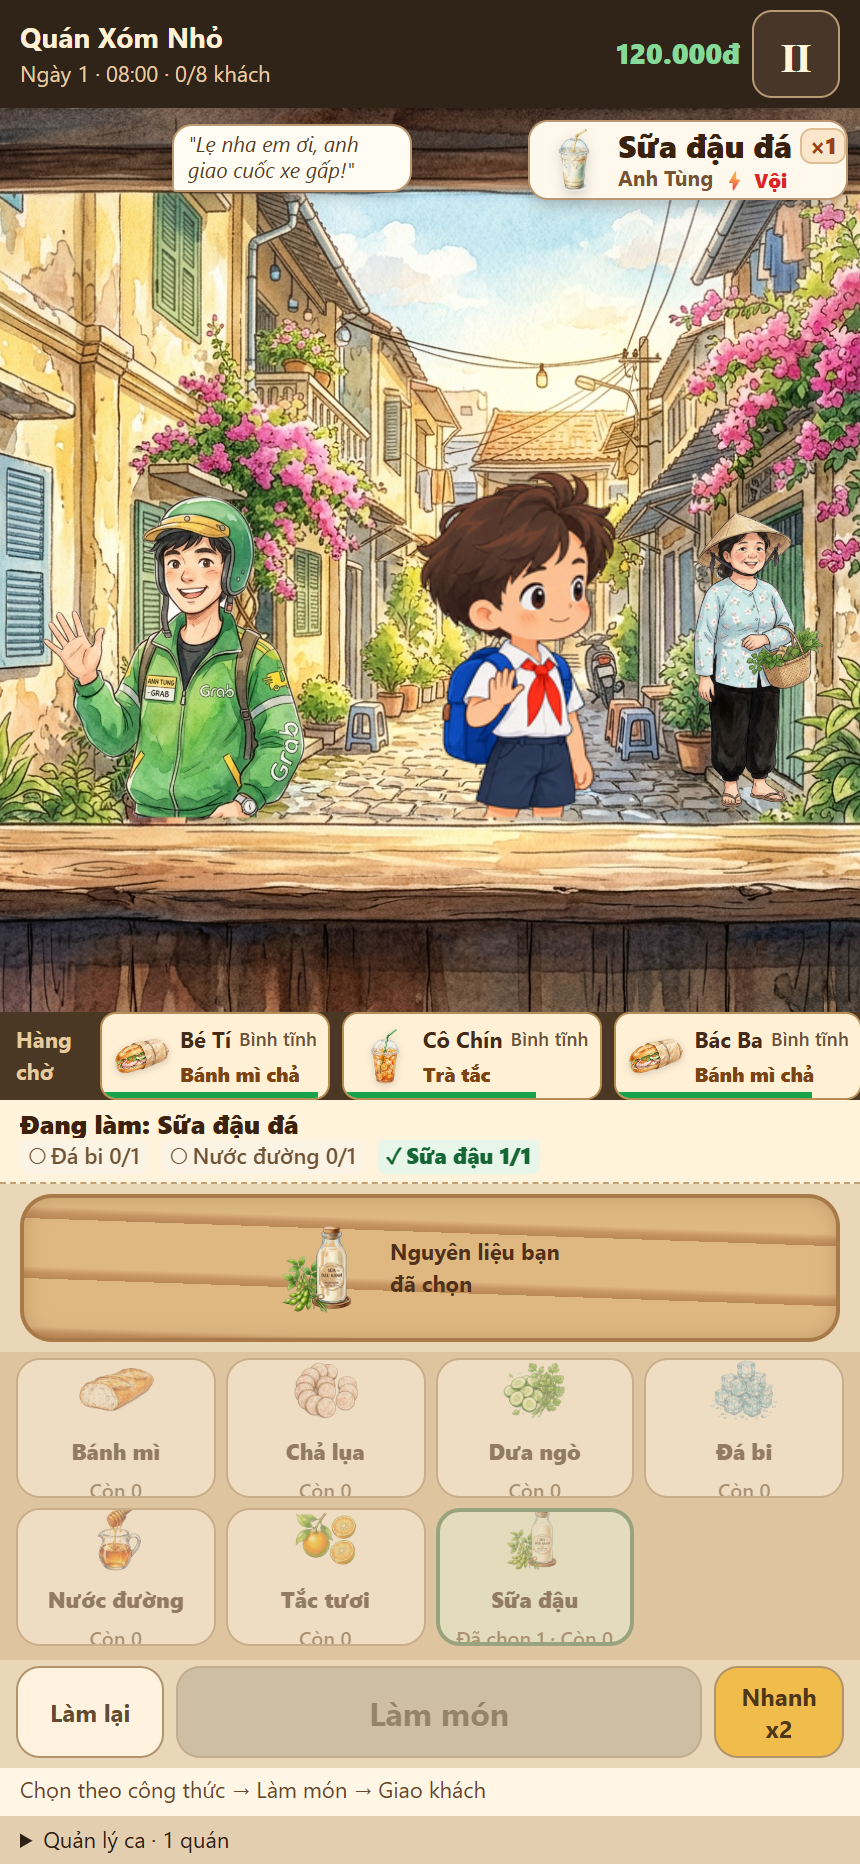
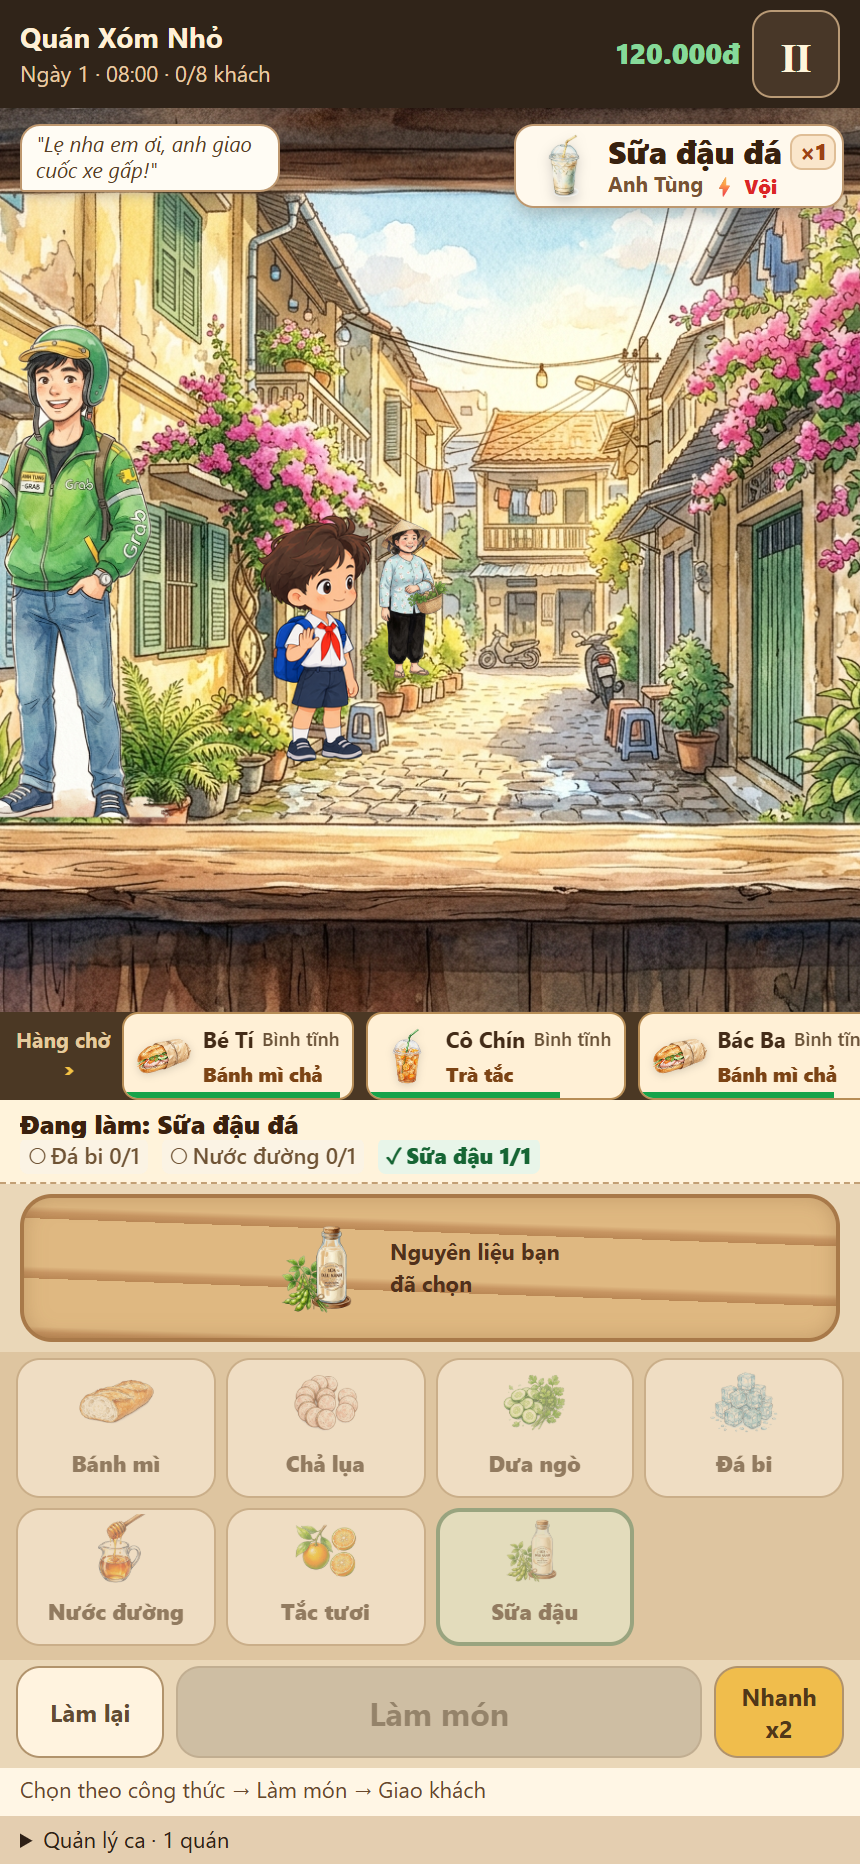
fix(layout): ground coordinate stage, age-depth scaling, and zero-duplicate queue promotion

diff --git a/game/style.css b/game/style.css
@@ -2642,16 +2642,11 @@ button:focus-visible, [role=button]:focus-visible { outline: 3px solid #0e7490; 
 .play-cash i { position:absolute; top:24px; right:0; background:#237846; color:white; z-index:60; font-size:12px; font-style:normal; padding:2px 6px; }
 .play-pause { width:44px; height:44px; border:1px solid #b99a76; background:#483728; color:#fff5db; border-radius:10px; flex-shrink:0; font-size:20px; }
 .play-scene { position:relative; overflow:hidden; min-height:0; background:#c1b288; }
-.play-background,.play-foreground { position:absolute; inset:0; width:100%; height:100%; object-fit:cover; object-position:center; }
-.play-background { z-index:0; }.play-foreground { z-index:20; pointer-events:none; }
-.play-customer { position:absolute; height:86%; width:47%; left:0; bottom:-13%; object-fit:contain; object-position:bottom; z-index:10; }
-.play-customer.small-child { height:73%; }.play-customer.teen { height:80%; }
+.play-stage { position:absolute; inset:0; width:100%; height:100%; pointer-events:none; }
 .play-customer.react { animation:reactBounce .5s ease-out; }
-.play-waiting { position:absolute; height:52%; width:24%; bottom:10%; object-fit:contain; z-index:4; }.waiting-0{left:48%}.waiting-1{left:72%;height:44%;bottom:16%}
-.play-canopy { position:absolute; left:0; top:0; width:100%; height:28%; object-fit:fill; z-index:18; }
-.customer-speech-bubble { position:absolute; z-index:25; left:20%; top:8px; max-width:120px; background:#fffcf4; border:1.5px solid #bd976e; border-radius:10px 10px 10px 2px; padding:3px 7px; font-size:10.5px; font-style:italic; color:#583d24; line-height:1.25; box-shadow:0 2px 6px rgba(36,26,25,0.22); pointer-events:none; }
+.customer-speech-bubble { position:absolute; z-index:25; left:10px; top:8px; max-width:130px; background:#fffcf4; border:1.5px solid #bd976e; border-radius:10px 10px 10px 2px; padding:3px 7px; font-size:10.5px; font-style:italic; color:#583d24; line-height:1.25; box-shadow:0 2px 6px rgba(36,26,25,0.22); pointer-events:none; }
 .customer-speech-bubble span { display:-webkit-box; -webkit-line-clamp:2; -webkit-box-orient:vertical; overflow:hidden; }
-.play-speech, .customer-order-callout { position:absolute; z-index:30; right:6px; top:6px; max-width:160px; background:#fff9ed; border:1.5px solid #bd976e; border-radius:10px; padding:3px 6px; box-shadow:0 3px 8px rgba(36,26,25,0.25); display:flex; align-items:center; gap:6px; }
+.play-speech, .customer-order-callout { position:absolute; z-index:30; right:8px; top:8px; max-width:165px; background:#fff9ed; border:1.5px solid #bd976e; border-radius:10px; padding:4px 8px; box-shadow:0 3px 8px rgba(36,26,25,0.25); display:flex; align-items:center; gap:6px; }
 .customer-order-callout.is-empty { padding:6px 10px; text-align:center; color:#795b3d; font-style:italic; font-size:11px; }
 .ticket-dish-img { width:32px; height:32px; object-fit:contain; flex-shrink:0; filter:drop-shadow(0 2px 3px rgba(0,0,0,0.18)); }
 .ticket-dish-meta { flex:1; min-width:0; display:flex; flex-direction:column; justify-content:center; gap:1px; }
@@ -2663,10 +2658,11 @@ button:focus-visible, [role=button]:focus-visible { outline: 3px solid #0e7490; 
 .ticket-cust-name { font-weight:700; white-space:nowrap; overflow:hidden; text-overflow:ellipsis; }
 .ticket-rush-tag { color:#dc2626; font-weight:800; font-size:10px; white-space:nowrap; }
 .ticket-empty-row { font-size:11px; color:#83674b; font-style:italic; padding:2px 0; }
-.play-tray-dish { position:absolute; z-index:26; bottom:8%; left:40%; width:18%; height:28%; object-fit:contain; }
 .play-pause-overlay { position:absolute; inset:0; background:#30241990; z-index:50; color:#fff; display:grid; place-items:center; font-size:20px; font-weight:800; }
-.play-queue { display:flex; align-items:center; gap:6px; background:#4b3824; padding:0 8px; overflow-x:auto; color:#f6e1b9; font-size:11px; }
-.queue-header-label { width:36px; flex-shrink:0; font-weight:700; font-size:11px; color:#e5cb9f; }
+.play-queue { position:relative; display:flex; align-items:center; gap:6px; background:#4b3824; padding:0 8px; overflow-x:auto; color:#f6e1b9; font-size:11px; scrollbar-width:thin; }
+.queue-header-label { width:auto; min-width:38px; flex-shrink:0; font-weight:700; font-size:10.5px; color:#e5cb9f; display:flex; flex-direction:column; align-items:center; line-height:1.1; }
+.queue-scroll-indicator { display:inline-block; font-style:normal; font-size:13px; font-weight:900; color:#f6c445; animation:queueArrowPulse 1.2s ease-in-out infinite; }
+@keyframes queueArrowPulse { 0%, 100% { transform:translateX(0); opacity:0.6; } 50% { transform:translateX(3px); opacity:1; } }
 .queue-ticket { min-width:115px; max-width:145px; min-height:44px; height:44px; position:relative; overflow:hidden; border:1px solid #b78d56; border-radius:8px; background:#fff0d6; padding:2px 6px; display:flex; align-items:center; gap:5px; text-align:left; color:#493019; flex-shrink:0; }
 .queue-dish-thumb { width:28px; height:28px; object-fit:contain; flex-shrink:0; filter:drop-shadow(0 1px 2px rgba(0,0,0,0.15)); }
 .queue-ticket-meta { flex:1; min-width:0; display:flex; flex-direction:column; justify-content:center; gap:1px; }
@@ -2689,7 +2685,7 @@ button:focus-visible, [role=button]:focus-visible { outline: 3px solid #0e7490; 
 .cooking-board {margin:5px 10px;position:relative;border:2px solid #a87949;border-radius:16px;background:repeating-linear-gradient(2deg,#ba8855 0px,#c79562 3px,#dfb881 6px,#dfb881 30px);box-shadow:inset 0 0 10px #70482340;display:flex;align-items:center;justify-content:center;gap:10px;overflow:hidden;color:#51301b;font-size:12px}
 .cooking-board>b{font-size:11px;max-width:100px}.selected-art{display:flex;align-items:center;justify-content:center;gap:2px;max-width:65%;height:63px}.selected-art img{width:50px;height:58px;object-fit:contain;animation:ingredientDrop .2s ease-out}.finished-dish{height:62px;width:100px;object-fit:contain;animation:ingredientDrop .25s ease-out}.is-cooking .selected-art {animation:cookSway .5s ease-in-out infinite alternate}.cook-progress{position:absolute;bottom:0;left:0;height:4px;width:100%;background:#f4d5a2}.cook-progress i{display:block;height:100%;background:#a65020}
 .ingredient-tray {display:grid;grid-template-columns:repeat(4,minmax(0,1fr));grid-template-rows:repeat(2,minmax(0,1fr));gap:5px;padding:3px 8px 7px;background:#dec5a0}
-.ingredient-button {padding:3px 2px;display:flex;flex-direction:column;align-items:center;justify-content:center;min-width:44px;min-height:44px;border:1px solid #b69871;border-radius:12px;background:#fff6e6;box-shadow:0 2px 0 #a78455;color:#45321f;overflow:hidden}.ingredient-button img{width:52px;height:36px;object-fit:contain;pointer-events:none}.ingredient-button b{font-size:11px;line-height:1.3}.ingredient-button small{font-size:10px;line-height:1.2;color:#765e43}.ingredient-button.picked{border:2px solid #54845d;background:#e7f3d8}.ingredient-button:active{transform:translateY(2px)}.ingredient-button:disabled{opacity:.5;box-shadow:none}.egg-placeholder{height:36px;display:grid;place-items:center;font-size:12px}
+.ingredient-button {padding:3px 2px;display:flex;flex-direction:column;align-items:center;justify-content:center;min-width:44px;min-height:44px;border:1px solid #b69871;border-radius:12px;background:#fff6e6;box-shadow:0 2px 0 #a78455;color:#45321f;overflow:hidden}.ingredient-button img{width:52px;height:36px;object-fit:contain;pointer-events:none}.ingredient-button b{font-size:11px;line-height:1.3}.ingredient-button small{font-size:10px;line-height:1.15;color:#765e43;white-space:nowrap;overflow:hidden;text-overflow:ellipsis;display:block;max-width:100%;text-align:center}.ing-stock-line .ing-picked{color:#166534;font-weight:800}.ingredient-button.picked{border:2px solid #54845d;background:#e7f3d8}.ingredient-button:active{transform:translateY(2px)}.ingredient-button:disabled{opacity:.5;box-shadow:none}.egg-placeholder{height:36px;display:grid;place-items:center;font-size:12px}
 .cook-actions{display:flex;gap:6px;padding:3px 8px 5px;background:#ead7b8}.cook-actions button{border-radius:12px;border:1px solid #b1936c;font-weight:750;font-size:12px;min-width:54px;min-height:44px}.cook-main{flex:1;background:#b44921;color:white;font-size:16px!important;border-color:#7e2d17!important;box-shadow:0 3px 0 #772e19}.cook-main.ready{background:#2d8157;border-color:#1d5139!important;box-shadow:0 3px 0 #1d5139}.cook-main:disabled{background:#bfb098;border-color:#ab987d!important;color:#665640;box-shadow:none}.undo-button{background:#fff3df;color:#624b32}.boost-button{background:#f0bd4c;color:#513719;max-width:65px}.cook-actions button:disabled{opacity:.65}
 .play-status{font-size:11px;padding:3px 10px;background:#fff6e5;color:#68472c;white-space:nowrap;overflow:hidden;text-overflow:ellipsis}.play-options{font-size:11px;background:#e4ceb0;position:relative}.play-options summary{height:24px;padding:4px 10px;cursor:pointer}.play-options[open]>div{position:absolute;bottom:24px;right:0;left:0;background:#fff4de;z-index:90;padding:10px;box-shadow:0 -4px 18px #382b1740;display:grid;gap:8px}.play-options button{background:#f5e2c3;border:1px solid #b59770;border-radius:10px;min-height:44px}.play-options small{font-size:12px}
 .morning-dashboard,.end-day {padding:16px;max-width:100%}.morning-hero{height:145px;border-radius:20px;background:linear-gradient(0deg,#392811a0,#39281105),url('../assets/environment/alley_counter_clean.jpg') center 47%/cover;color:#fff3da;padding:20px;display:flex;flex-direction:column;justify-content:flex-end}.morning-hero h2{font-size:26px;margin:0}.morning-hero span{font-weight:750;text-shadow:0 2px 2px #333}.day-stats{display:grid;grid-template-columns:repeat(3,minmax(0,1fr));gap:6px;margin:12px 0}.day-stats>div{padding:12px 5px;border:1px solid #cfb792;border-radius:13px;background:#fff5e2;text-align:center}.day-stats b{font-size:18px;color:#694526;display:block;overflow-wrap:anywhere}.day-stats small{font-size:11px;color:#806a50;display:block}.forecast-card{padding:12px;background:#eee1c6;border-radius:13px;margin:12px 0}.forecast-card p{font-size:13px;margin:5px 0 0}.morning-help,.morning-details{font-size:13px;color:#74573c}.morning-details{margin-top:12px}.morning-details summary,.end-day summary{min-height:44px;padding:12px;background:#f0e1c7;border-radius:10px;cursor:pointer}.upgrade-grid{display:grid;grid-template-columns:1fr 1fr;gap:8px;margin-bottom:10px}.upgrade-grid button{min-height:100px;border:1px solid #cbb593;border-radius:14px;background:#fff4e0;padding:10px;text-align:left;color:#61442b}.upgrade-grid b,.upgrade-grid span,.upgrade-grid small{display:block}.upgrade-grid b{font-size:13px}.upgrade-grid span{font-size:12px;color:#a54c20;margin:4px 0}.upgrade-grid small{font-size:11px;line-height:1.3}.morning-dashboard .btn-secondary{margin:6px 0;min-height:44px;font-size:13px;padding:12px}.morning-dashboard h3,.end-day h3{font-size:15px;margin:15px 0 8px}.end-day h2{font-size:23px;margin:5px 0 12px}.end-day-badge{color:#98713c;font-size:13px;font-weight:800}.feedback-cards{display:grid;gap:8px}.feedback-cards>div{border-left:3px solid #b28750;padding:10px 12px;border-radius:8px;background:#fff4df}.feedback-cards b{font-size:13px;color:#79522e}.feedback-cards p{font-size:13px;margin:4px 0 0}.next-tip{font-size:13px;color:#7b5c37}.result-countdown{display:block;text-align:center;font-size:11px;margin:8px 0 15px}.compact-ledger{padding:10px;font-size:12px}.compact-ledger>div{display:flex;justify-content:space-between;gap:8px;border-bottom:1px dashed #d0b794;padding:6px 0}.compact-ledger p{font-size:12px}.compact-ledger h3{font-size:14px}

diff --git a/tools/playtest/verify_section9_readability.py b/tools/playtest/verify_section9_readability.py
@@ -161,6 +161,11 @@ async def main():
                 dialogue: 'Bán cho cô ly trà tắc giải khát thanh mát nha con!'
             };
             s.extraCha = null;
+            s.waitingQueue = [
+                { id: 'anh_tung', name: 'Anh Tùng', recipe: 'SUA_DAU_DA', temperament: 'RUSH', patience: 50, maxPatience: 60 },
+                { id: 'be_ti', name: 'Bé Tí', recipe: 'BANH_MI_CHA', temperament: 'NORMAL', patience: 90, maxPatience: 100 },
+                { id: 'bac_ba', name: 'Bác Ba', recipe: 'BANH_MI_CHA', temperament: 'NORMAL', patience: 80, maxPatience: 100 }
+            ];
             s.service = {
                 version: 2,
                 customerId: 'co_chin',
@@ -180,7 +185,7 @@ async def main():
         test_results["fixtures"]["shot_02"] = {
             "file": "shot_02_tra_tac.png",
             "label": "Fixture bố cục - Trà tắc (Cô Chín)",
-            "description": "Phiếu trà tắc với ảnh takeaway, thoại không còn yêu cầu unsupported 'ít đá'"
+            "description": "Phiếu trà tắc với ảnh takeaway, Cô Chín tại quầy, hàng chờ gồm Anh Tùng và Bé Tí (không trùng Cô Chín)"
         }
         print("Captured Scene 2 ->", shot2_path)
 
@@ -198,6 +203,11 @@ async def main():
                 dialogue: 'Lẹ nha em ơi, anh giao cuốc xe gấp!'
             };
             s.extraCha = null;
+            s.waitingQueue = [
+                { id: 'be_ti', name: 'Bé Tí', recipe: 'BANH_MI_CHA', temperament: 'NORMAL', patience: 90, maxPatience: 100 },
+                { id: 'co_chin', name: 'Cô Chín', recipe: 'TRA_TAC', temperament: 'NORMAL', patience: 75, maxPatience: 100 },
+                { id: 'bac_ba', name: 'Bác Ba', recipe: 'BANH_MI_CHA', temperament: 'NORMAL', patience: 80, maxPatience: 100 }
+            ];
             s.service = {
                 version: 2,
                 customerId: 'anh_tung',
@@ -553,6 +563,62 @@ async def main():
             "description": "Món ăn xuất hiện trên khay gờ quầy, khách giơ tay nhận món với lời cảm ơn, tiền két tăng +25.000đ."
         }
         print("Captured Real Step 3 ->", shot_order_3)
+
+        # Step 4: Advance shift past reaction time to trigger customer departure and queue promotion
+        print("Real Step 4: Advancing past reaction to promote next customer from queue to counter...")
+        promotion_result = await page.evaluate("""() => {
+            window.__xomNho.advanceShift(500); // reactionMs = 400ms -> triggers CUSTOMER_LEAVE
+            const s = window.__xomNho.getState();
+            const active = s.activeCustomer;
+            const queue = s.waitingQueue || [];
+            
+            // Check DOM elements
+            const counterCustomer = document.querySelector('.play-customer');
+            const waiting0 = document.querySelector('.waiting-0');
+            const waiting1 = document.querySelector('.waiting-1');
+            
+            const activeId = active ? active.id : null;
+            const queueIds = queue.map(q => q.id);
+            const isDuplicated = queueIds.includes(activeId);
+            
+            return {
+                promotedId: activeId,
+                promotedName: active ? active.name : null,
+                queueRemaining: queueIds,
+                isDuplicated,
+                hasCounterCustomer: counterCustomer !== null,
+                hasWaiting0: waiting0 !== null,
+                hasWaiting1: waiting1 !== null
+            };
+        }""")
+        await page.wait_for_timeout(200)
+
+        shot_order_4 = DOCS_EVIDENCE / "shot_order_step4_promoted.png"
+        await page.screenshot(path=str(shot_order_4))
+        test_results["real_manual_order"]["step4_promoted"] = {
+            "file": "shot_order_step4_promoted.png",
+            "action": "Chuyển khách từ hàng chờ lên quầy (PROMOTION)",
+            "description": f"Bé Tí rời quầy sau khi nhận món; Cô Chín ({promotion_result['promotedId']}) được chuyển từ hàng chờ lên quầy thành công, bị xoá khỏi hàng chờ (còn lại: {promotion_result['queueRemaining']}). Không bị nhân đôi.",
+            "metrics": promotion_result
+        }
+        test_results["queue_promotion_no_duplicate"] = (not promotion_result["isDuplicated"]) and (promotion_result["promotedId"] == "co_chin")
+        print("Captured Real Step 4 ->", shot_order_4, "Promotion status:", promotion_result)
+
+        test_results["measured_vs_reviewed"] = {
+            "measured_programmatically": [
+                "Kích thước touch target tất cả các nút: ingredient buttons (8/8), cook actions (3/3), play-pause (1/1), queue-tickets (3/3) đều >= 44x44px và reachable (document.elementFromPoint)",
+                "Khoảng cách không che khuất giữa order callout và khách hàng chờ trong hẻm (overlaps == False)",
+                "Không có tràn ngang scrollWidth <= window.innerWidth trên 360px, 390px, 430px",
+                "Kiểm tra nhân đôi khách hàng khi promote từ hàng chờ lên quầy: activeCustomer.id không xuất hiện trong waitingQueue (zero duplication)",
+                "Không có lỗi console (0 error) và không có ảnh bị lỗi tải 404 (0 broken images)"
+            ],
+            "visually_reviewed_by_eye": [
+                "Đồng nhất nét vẽ, màu nước chibi của các nhân vật so với Bé Tí",
+                "Độ tự nhiên của điểm neo chân trên mặt đường đá hẻm (không bị lơ lửng, không đè lên chậu cây hay tường)",
+                "Thứ tự lớp che thị giác (background -> khách xa -> khách gần -> khách quầy -> gờ quầy -> UI)",
+                "Cảm giác cuộn ngang của hàng chờ qua icon mũi tên và ticket lấp ló"
+            ]
+        }
 
         # -------------------------------------------------------------
         # COPY ALL EVIDENCE TO BRAIN ARTIFACTS
